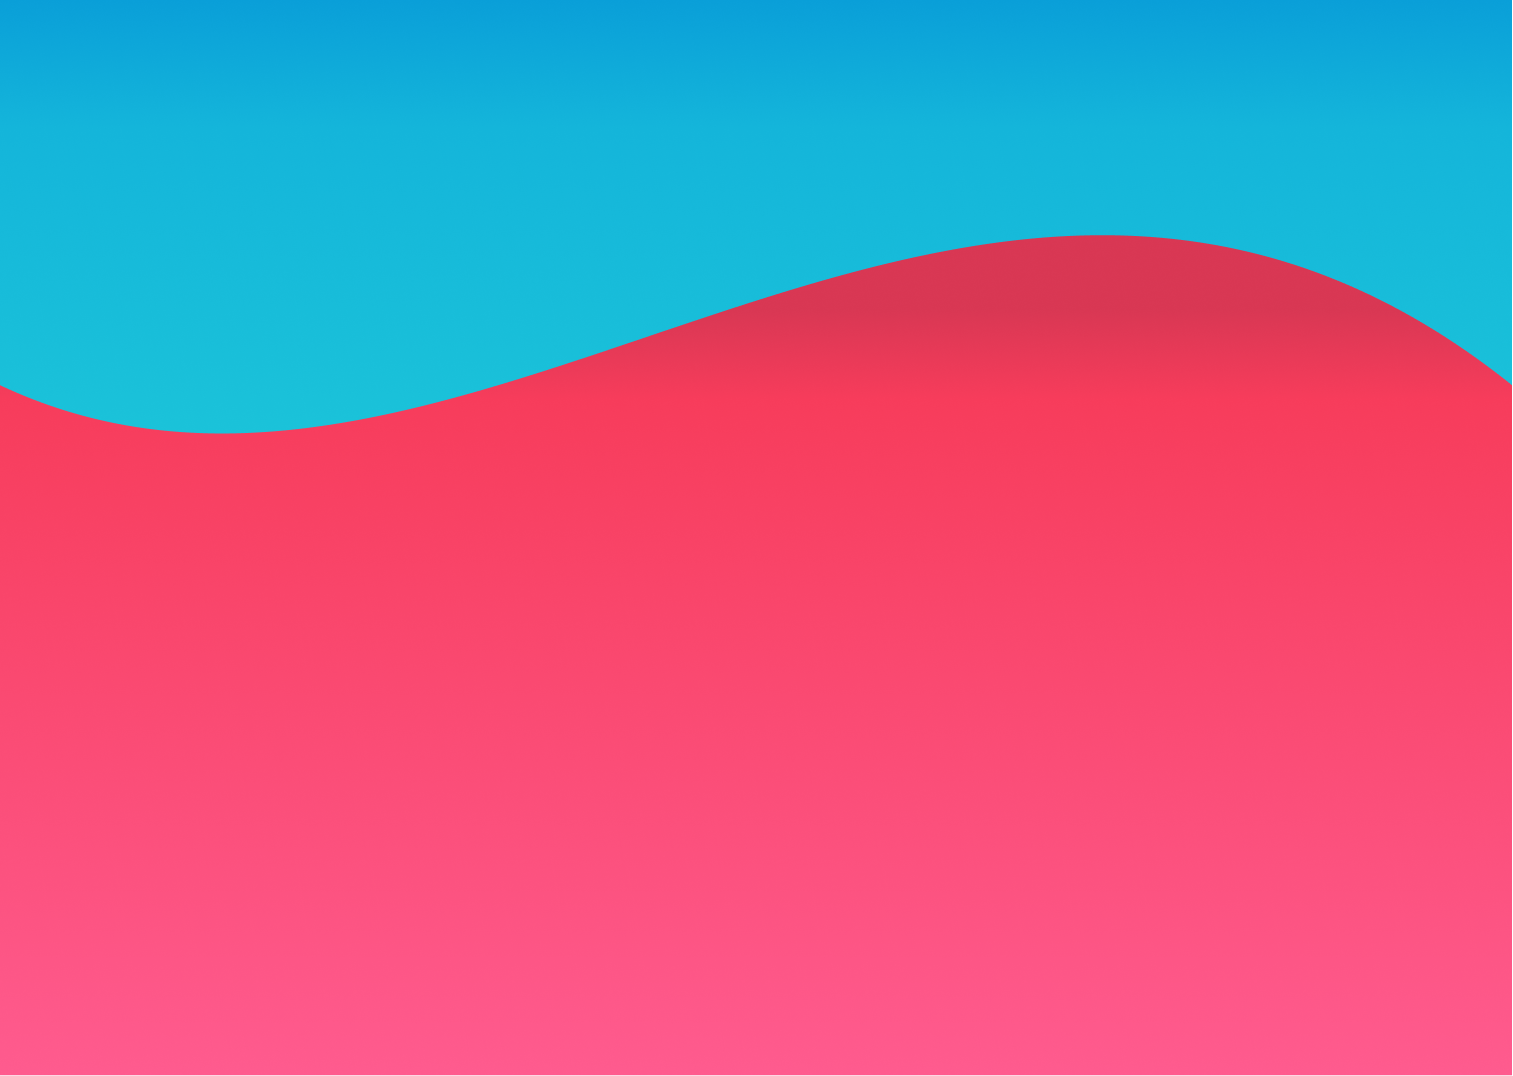
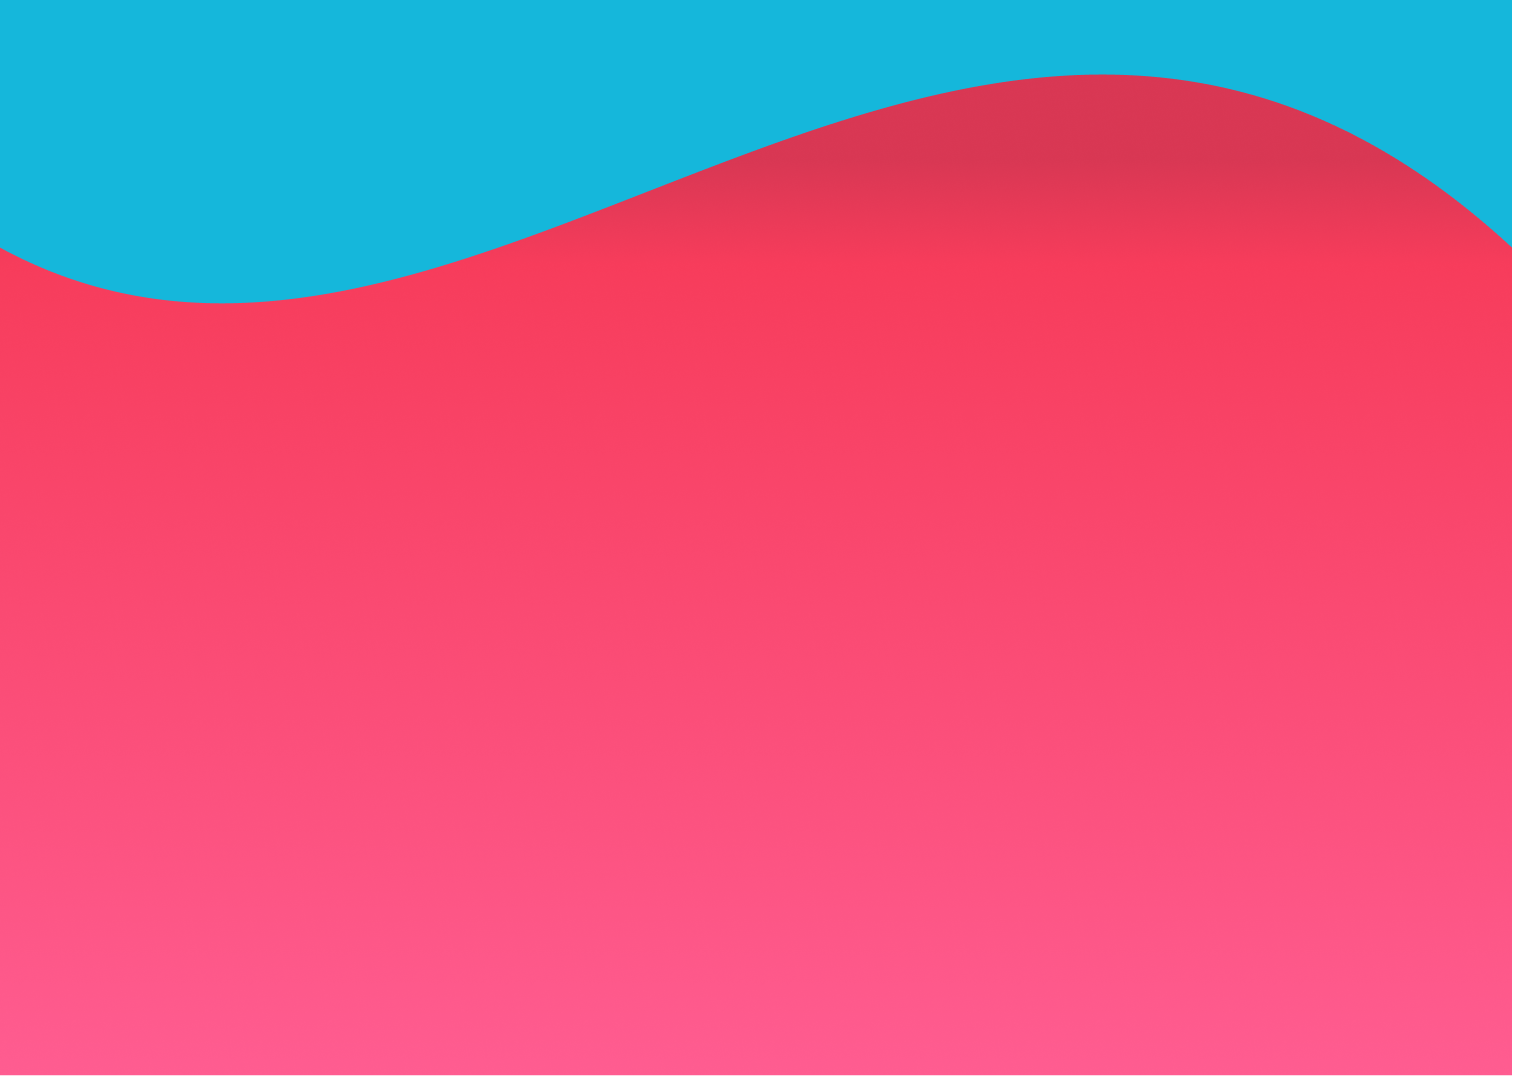
fix: about us

Changed region(s): [[0.0, 0.0613, 1.0, 0.4294]]

diff --git a/frontend/src/App.js b/frontend/src/App.js
@@ -1,8 +1,8 @@
-import { Route, Routes } from "react-router-dom";
-import About from "./aboutus";
-import Home from "./home";
-import Moreinfo from "./moreinfo";
-import Login from "./login";
+import {Route, Routes } from "react-router-dom";
+import About from "./aboutus/index";
+import Home from "./home/index";
+import Moreinfo from "./moreinfo/index";
+import Login from "./login/index";
 
 const App = () => {
     return (

diff --git a/frontend/src/aboutus/index.css b/frontend/src/aboutus/index.css
@@ -7,7 +7,7 @@
 }
 
 .meetteam {
-    margin-top: -42%;
+    margin-top: -43%;
 }
 
 .wave {

diff --git a/frontend/src/moreinfo/index.css b/frontend/src/moreinfo/index.css
@@ -1,4 +1,3 @@
-
 .infobox{
     margin-top: -7%;
     width: 80%;
